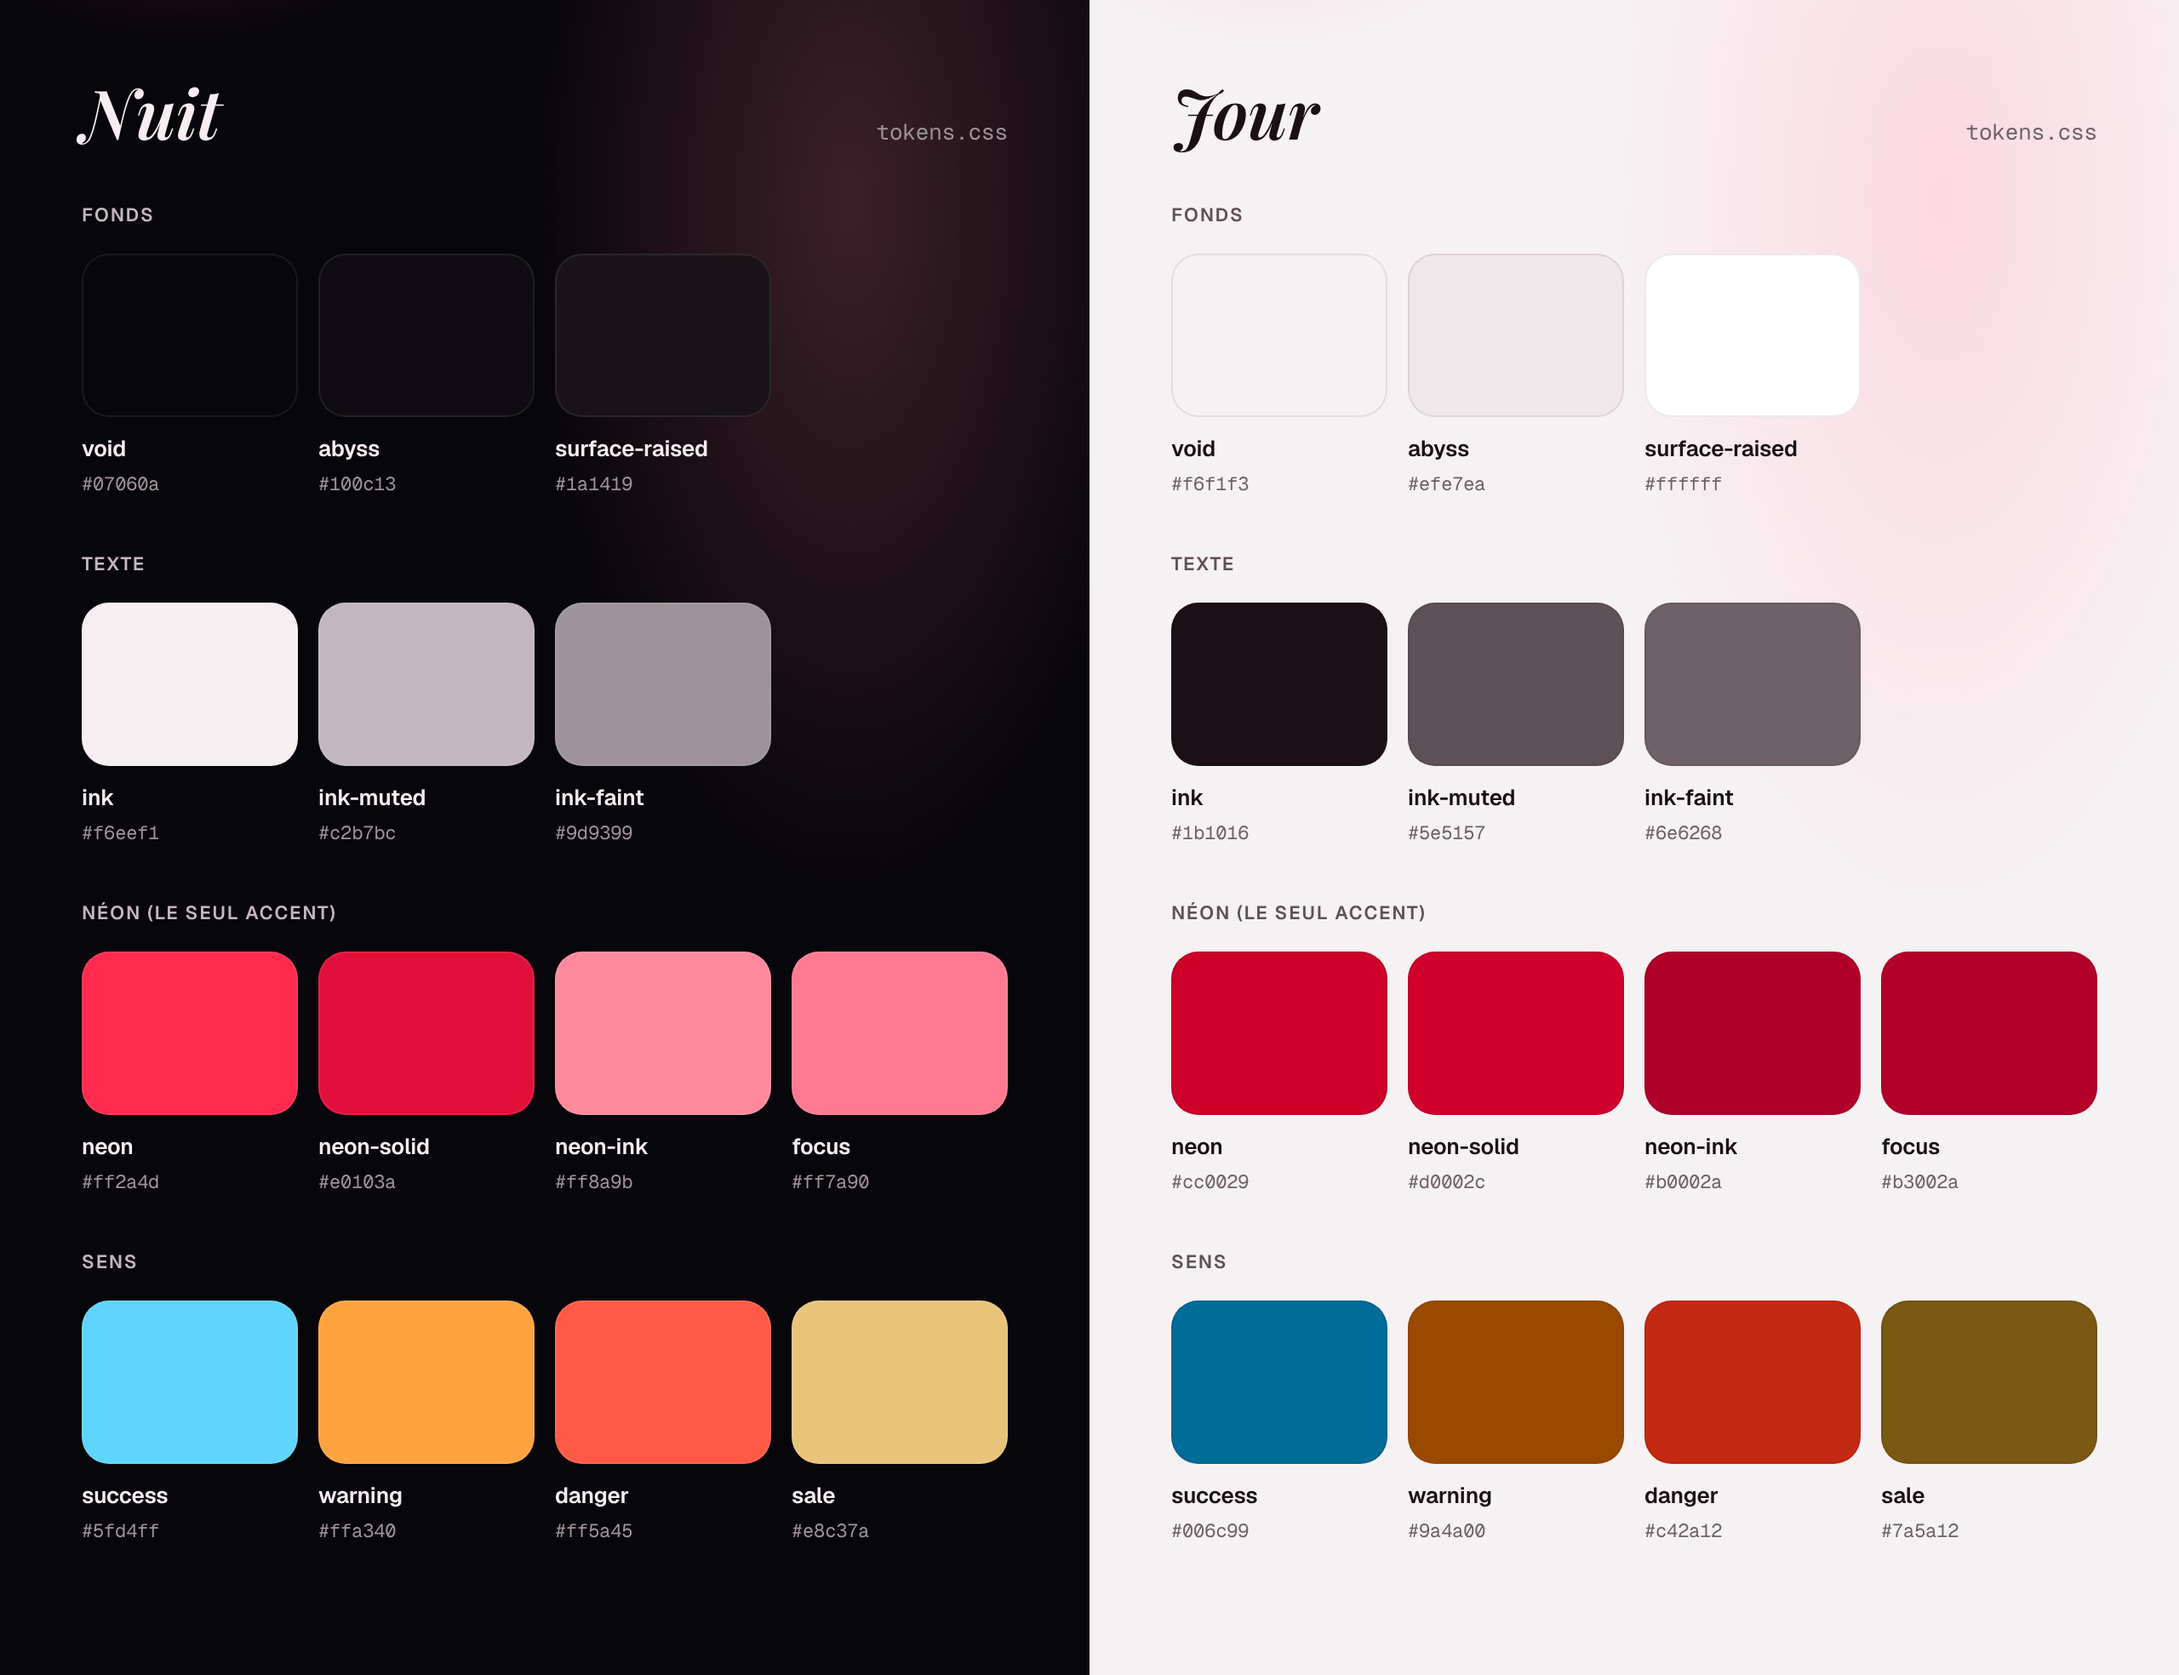
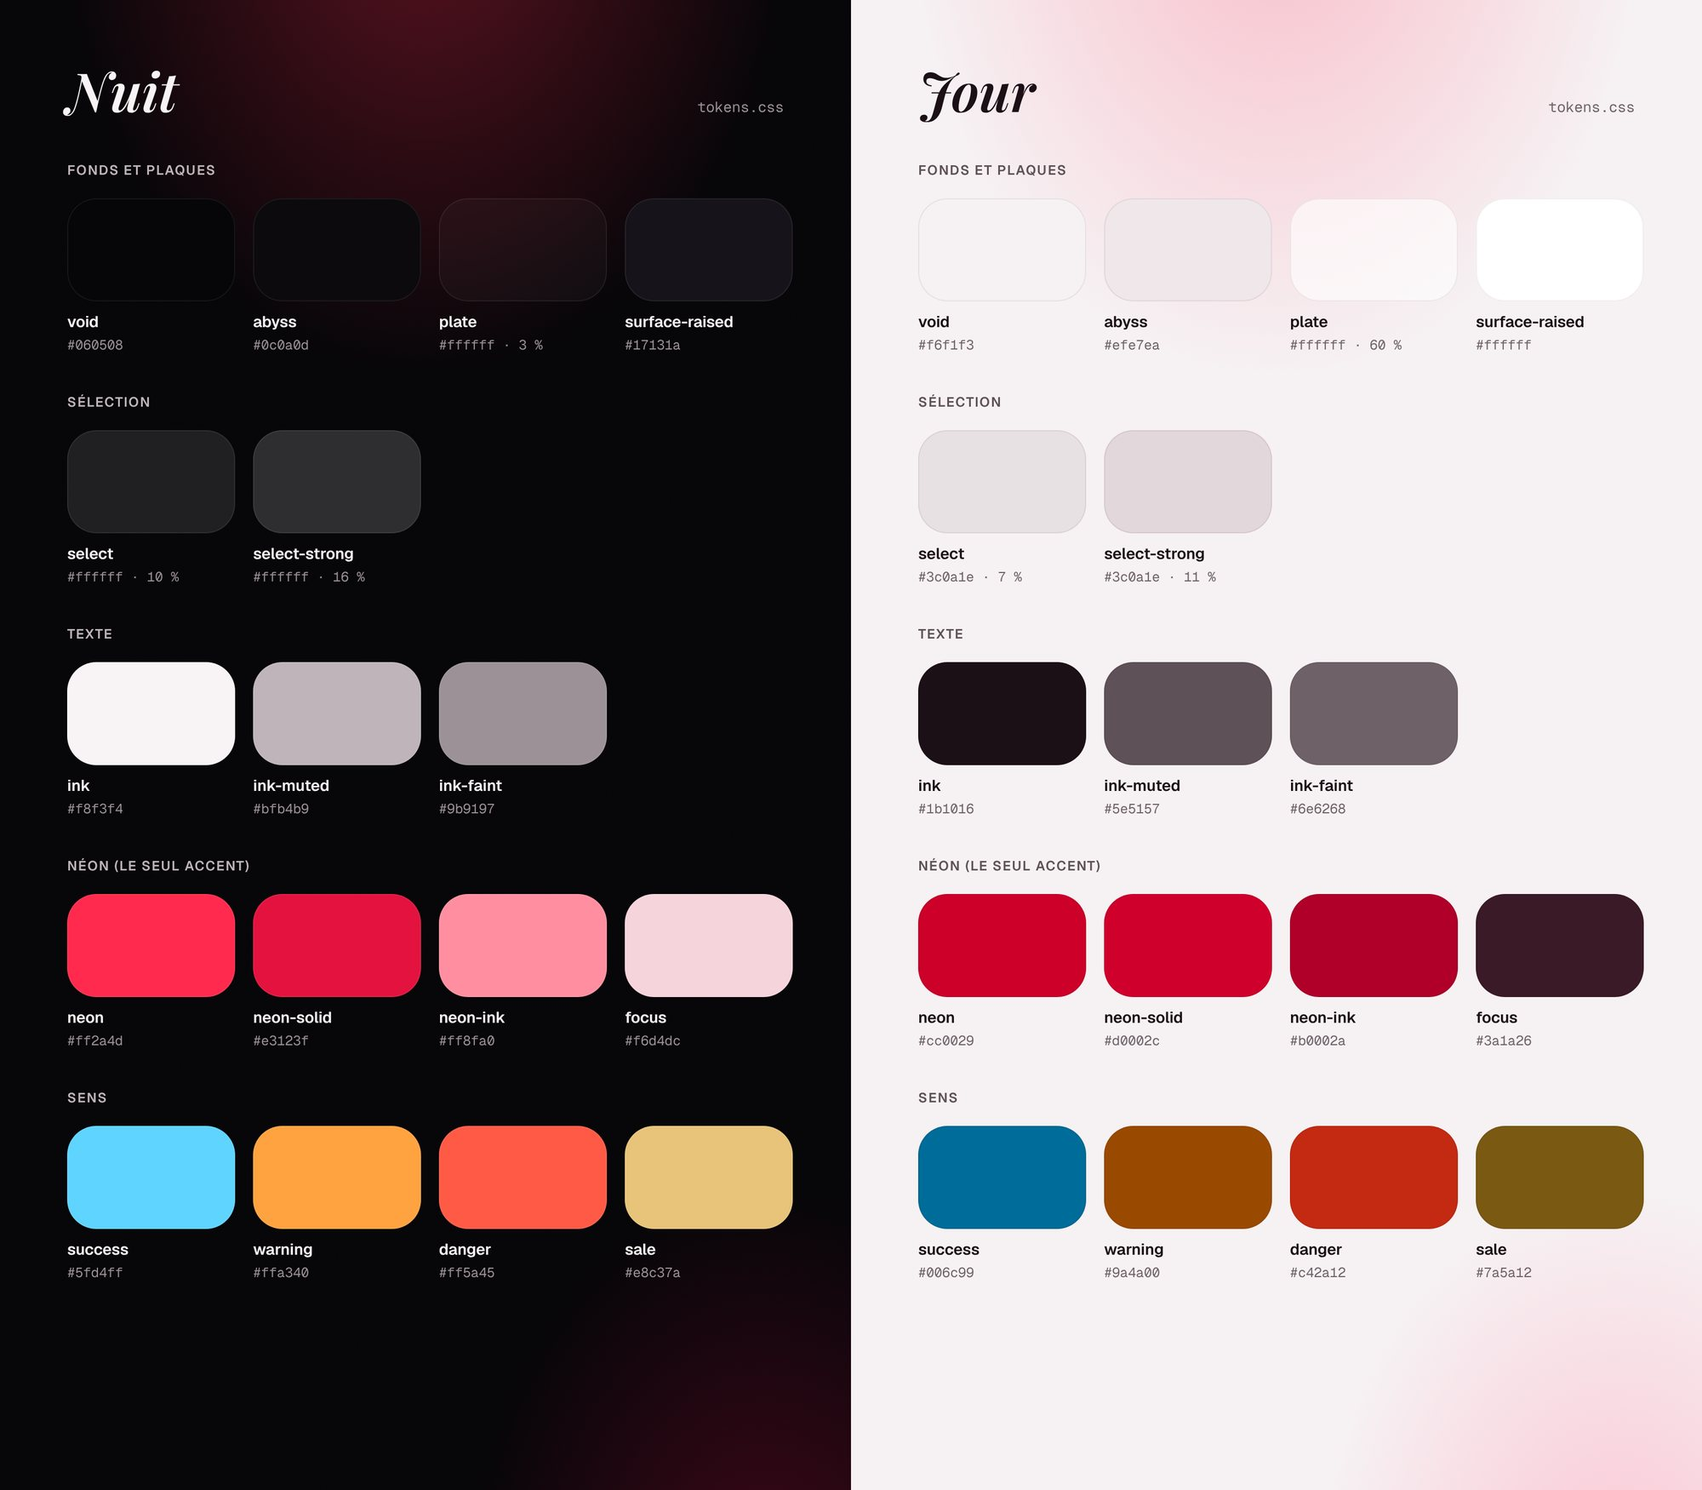
docs(design): guide images retaken from the redesigned CRM
Dashboard in Night and Day, the Suivi reader and three phone screens
replace the pre-redesign component boards; palette and typography are
rendered again from tokens.css (euros, Geist tabular figures, plate and
select tokens). The root README shows the Dashboard.

Claude-Session: https://claude.ai/code/session_013n6wZ4diAF7PiyQ7YNMcEr

diff --git a/README.md b/README.md
@@ -160,10 +160,10 @@ Les principes qui structurent tout ([`docs/architecture/overview.md`](docs/archi
 
 ## Interface et design system
 
-Les écrans de l'application n'existent pas encore ; le design system, si. **Liquid Glass sur une nuit chaude, un seul néon rouge** : surfaces translucides, bords lumineux, animations à ressort, et un test qui garantit le contraste AA dans les deux thèmes. Les images ci-dessous sont rendues depuis le CSS du package, avec des textes fictifs.
+**Liquid Glass sur une nuit chaude, un seul néon rouge** : le verre pour ce qui flotte (navigation, onglets, menus, feuilles), le contenu sur des plaques, le néon pour l'action principale et les urgences, l'ambre pour les avertissements, un seul ressort pour les animations, et un test qui garantit le contraste AA dans les deux thèmes. Ci-dessous, le CRM tel qu'il est, avec des données inventées.
 
 <p align="center">
-  <img src="docs/design/images/composants-nuit.jpg" alt="Composants du design system en thème Nuit : boutons, segment, interrupteurs, états de conversation, faits sur un fan, jauge de budget, cartes de statistiques, fil avec brouillon" width="100%">
+  <img src="docs/design/images/crm-dashboard-nuit.jpg" alt="Dashboard en thème Nuit : barre latérale en verre, titre qui dit ce qui attend, liste « À traiter » sur une plaque, santé de l'agent sur une ligne" width="100%">
 </p>
 
 <table>
@@ -174,8 +174,8 @@ Les écrans de l'application n'existent pas encore ; le design system, si. **Liq
 </table>
 
 - **Logo** : la flamme à l'auréole dessinée par Charles, nom en Playfair Display italique éclairé par la flamme. Fichiers et règles : [`brand/`](brand/README.md).
-- **Polices** : Geist pour l'interface, Geist Mono pour les chiffres, Instrument Serif italique pour les états vides. Icônes Lucide.
-- **Navigation prévue** : Dashboard, Créatrices, Entraîner (Playground, Corrections, Tests, Comparer), Suivi, Réglages. Pas d'Inbox : la validation en copilote est prévue dans Reveal, par l'extension.
+- **Polices** : Geist pour l'interface et les chiffres (tabulaires), Geist Mono pour les touches du clavier, Instrument Serif italique pour les états vides. Icônes Lucide.
+- **Navigation** : Dashboard, Créatrices, Entraîner (Playground, Corrections, Tests), Suivi, Réglages. Pas d'Inbox : en copilote, les brouillons se valident dans Suivi.
 - Guide complet, avec le thème Jour et la typographie : [`docs/design/README.md`](docs/design/README.md). Code : [`packages/design-system`](packages/design-system).
 
 ## Structure du dépôt

diff --git a/docs/design/README.md b/docs/design/README.md
@@ -4,11 +4,15 @@ Dernière revue : 2026-10-19 (refonte). Fiche : D-01. Code : `packages/design-sy
 
 ## En images
 
-Rendus du package lui-même (`tokens.css`, `components.css`, polices du design system) dans Chromium, à 2×, mouvement réduit ; textes fictifs. Ils datent d'avant la refonte du 19/10 et seront remplacés par des captures du CRM refait. Si une image et le CSS divergent, le CSS a raison et l'image est à refaire.
+Captures du CRM refait (23/10), prises dans Chromium à 2×, mouvement réduit, avec des données inventées (prénoms fictifs, aucune vraie conversation). La palette et la typographie sont rendues depuis le package lui-même : les valeurs affichées sont lues dans `tokens.css` au moment de la capture. Si une image et le CSS divergent, le CSS a raison et l'image est à refaire.
 
-![Composants, thème Nuit](images/composants-nuit.jpg)
+![Dashboard, thème Nuit](images/crm-dashboard-nuit.jpg)
 
-![Composants, thème Jour](images/composants-jour.jpg)
+![Dashboard, thème Jour](images/crm-dashboard-jour.jpg)
+
+![Suivi : le lecteur, les limites du fan et le brouillon de l'agent, thème Nuit](images/crm-suivi-nuit.jpg)
+
+![Sur téléphone : Dashboard, Suivi, Entraîner](images/crm-telephone.jpg)
 
 ![Palette des thèmes Nuit et Jour](images/palette.jpg)
 

diff --git a/docs/sessions/log/2026-10-25-d-01-images-guide.md b/docs/sessions/log/2026-10-25-d-01-images-guide.md
@@ -1,0 +1,7 @@
+# 2026-10-25 — D-01 Refonte : images du guide — done
+Fait : les images du guide (`docs/design/images/`) sont refaites depuis le CRM refait : Dashboard en Nuit et en Jour, le lecteur de Suivi avec les limites du fan et un brouillon, et trois écrans sur téléphone (Dashboard, Suivi, Entraîner), avec des données inventées servies par Playwright. La palette et la typographie sont rendues de nouveau depuis le package : les valeurs sont lues dans `tokens.css` (elles avaient changé depuis le 19/10 : fonds, encre, néon plein, focus, et les nouveaux `plate`, `select`, `select-strong`), les montants sont en euros et les chiffres en Geist tabulaire. Les deux planches de composants d'avant la refonte (`composants-nuit.jpg`, `composants-jour.jpg`) sont retirées : elles montraient tout en verre, le néon partout et des dollars. Le README racine montre le Dashboard et décrit la navigation actuelle (validation dans Suivi).
+Pas fait : le logo (`marque.png`) ne change pas, il est intouchable.
+Décisions : aucune.
+Découvertes : aucune.
+Candidats à suppression : aucun.
+Vérifié : pnpm check ✓, images relues une à une.

diff --git a/docs/sessions/tasks/D-01-design-system-liquid-glass.md b/docs/sessions/tasks/D-01-design-system-liquid-glass.md
@@ -53,3 +53,7 @@ Les écrans fonctionnels (inbox, conversation, fan, supervision) : ils arrivent 
 - Fait : Suivi, lecteur sur plaque, brouillon en teinte calme, non-lus sans néon. Reste : Réglages, connexion (erreur en néon) ; images du guide.
 - Fait : Réglages (Modèles IA, Telegram) sur plaques, alignés sur le titre, sélection neutre, ambre pour ce qui reste à régler. Reste : connexion (erreur en néon) ; images du guide.
 - Fait : connexion sur plaque, erreur en ambre, flamme du logo. Reste : images du guide.
+
+2026-10-25 (suite de la refonte) :
+- Fait : images du guide refaites depuis le CRM (Dashboard Nuit et Jour, Suivi, téléphone), palette et typographie rendues depuis `tokens.css`.
+- Reste : passe téléphone (Playground) ; choix du thème Jour, en attente de Charles.

diff --git a/docs/sessions/LOG.md b/docs/sessions/LOG.md
@@ -172,3 +172,4 @@ Découvertes (CI, PR #1) : la CI est rouge sur `main` comme sur la PR, pour deux
 | 2026-10-23 | Mémoire du fan : la politique pose les drapeaux sur un risque (P3-02, PR 6) | done | `log/2026-10-23-fan-flags-policy.md` |
 | 2026-10-25 | security.md : les compteurs des limites de débit vivent en mémoire | done | `log/2026-10-25-security-limiter-memory.md` |
 | 2026-10-25 | modules.md à l’état de main, tarifs du playbook dans catalog.ts | done | `log/2026-10-25-docs-modules-state.md` |
+| 2026-10-25 | Refonte : images du guide refaites depuis le CRM (D-01) | done | `log/2026-10-25-d-01-images-guide.md` |
